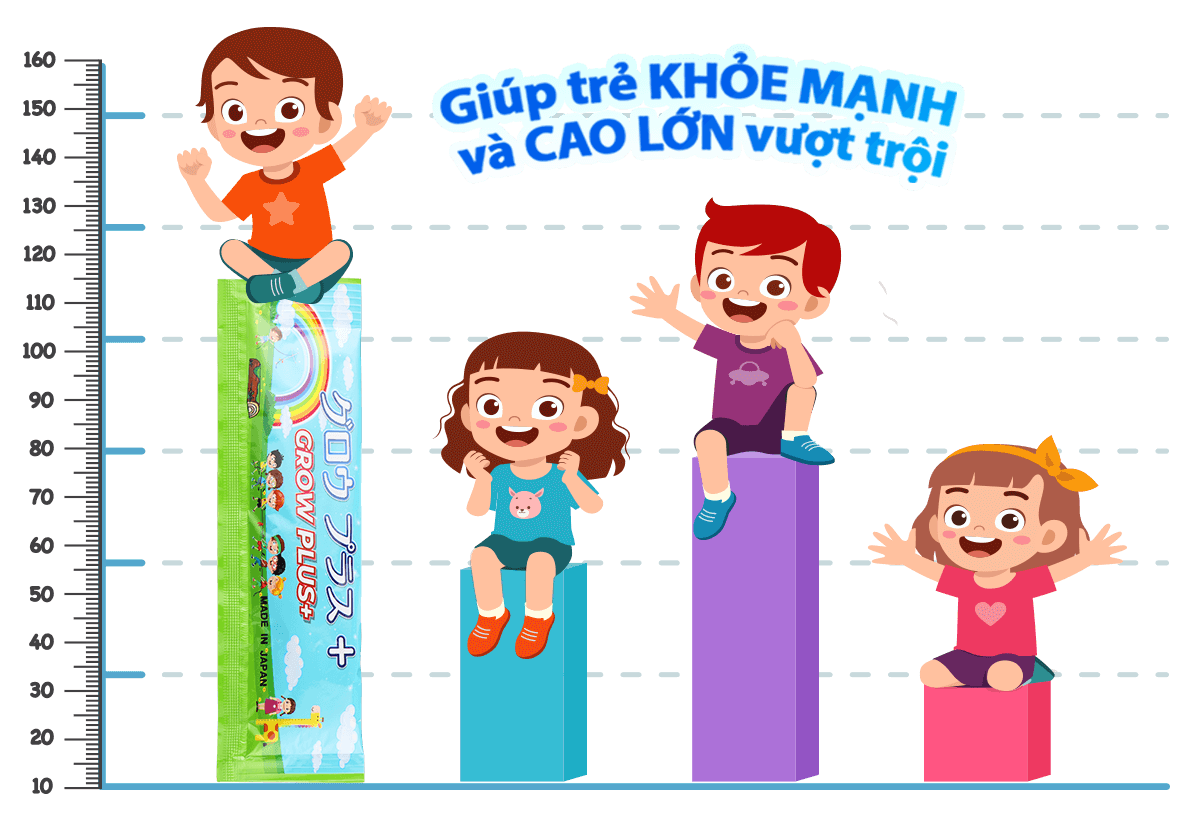
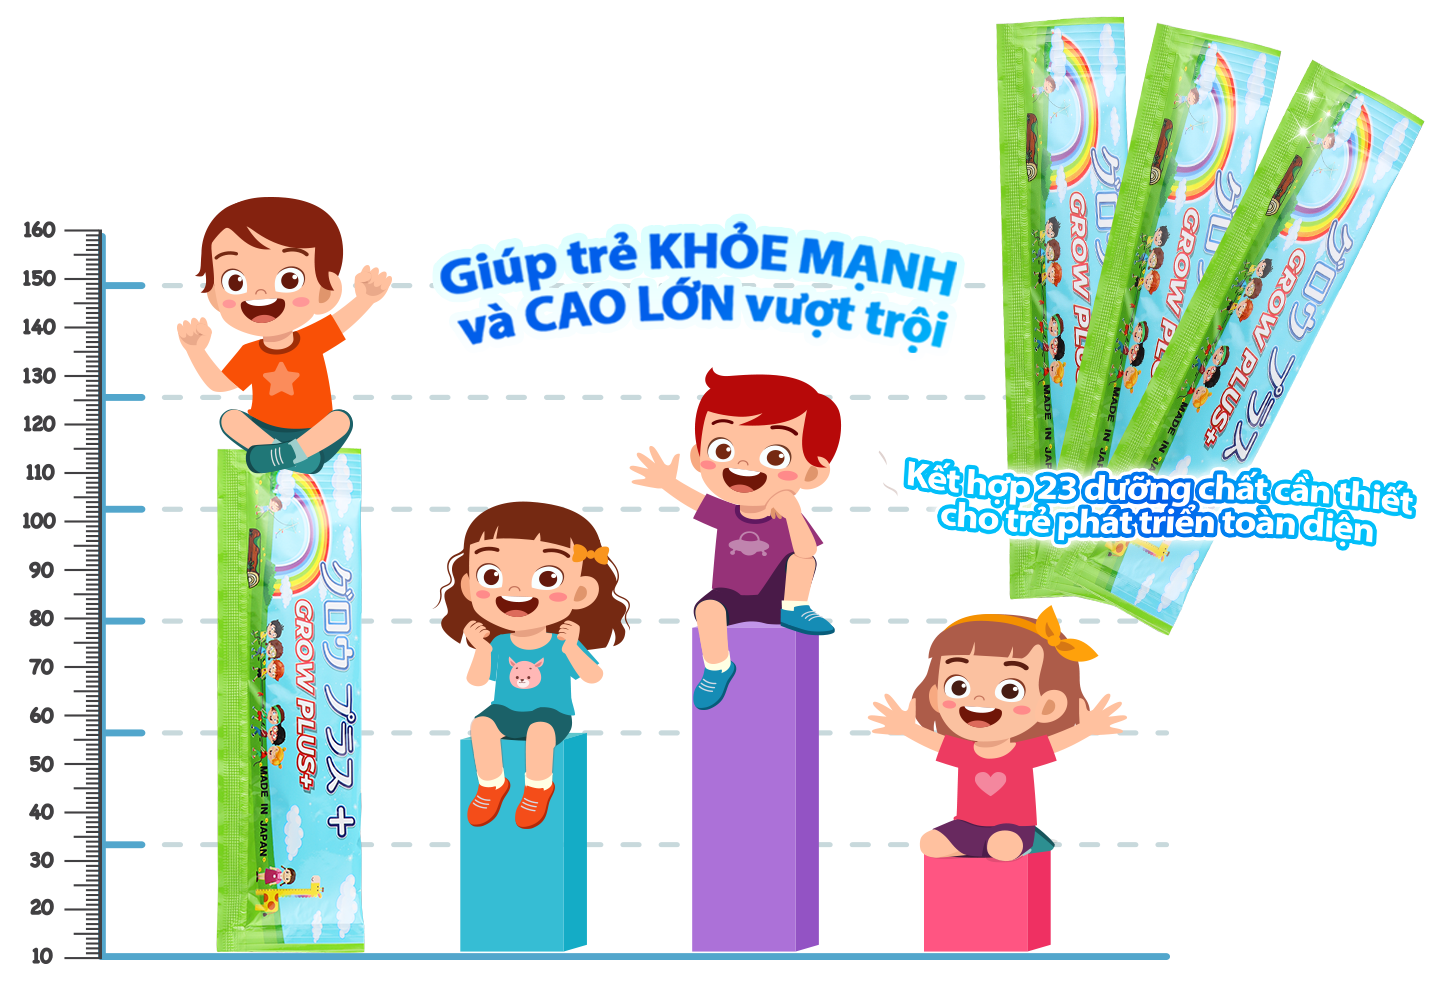
sdf

diff --git a/src/pages/Home.js b/src/pages/Home.js
@@ -117,14 +117,15 @@ export function Home() {
                 <HamburgerComponent/></div>
           </header>
           <div className="bg-[url(/public/banner.jpg)] bg-[length:158%_100%] md:bg-[length:100%_100%] h-[300px] md:h-[500px] mt-20"></div>
-          <div className='w-full md:flex justify-center'>
-            <div className='md:w-1/2 mt-8 md:ml-8 mx-4 flex'><img src="chart.png" className='object-contain' alt=""/></div>
-            <div className='md:w-[28%] mt-8 md:ml-8 mx-4 flex hidden md:block'><img src="3growplus.png" className='object-contain' alt=""/></div>
+          <div className='w-full md:flex justify-center hidden md:block'>
+            <div className='md:w-1/2 mt-8 md:ml-8 mx-4 flex'><img src="chartm.png" className='object-contain' alt=""/></div>
+            <div className='md:w-[28%] mt-8 md:ml-8 mx-4 flex'><img src="3growplus.png" className='object-contain' alt=""/></div>
           </div>
+          <img src="chart.png" className='md:hidden'></img>
           <section className='w-full mt-6 mb-16 md:mb-24 md:mt-8 scroll-m-20' ref={sec1}>
             <IngredientTab />
           </section>
-          <section className='w-full  bg-gradient-to-r from-10% to-[#0D4CC9] from-[#093489] md:from-white md:to-white md:pb-4 scroll-m-20 '  ref={sec4}><NotableBenefits /></section>
+          <section className='w-full  bg-gradient-to-r from-10% to-[#0D4CC9] from-[#093489] md:from-white md:to-white md:pb-4 scroll-m-20 pt-4 md:pt-0 '  ref={sec4}><NotableBenefits /></section>
           <section className='w-full scroll-m-20'  ref={sec5}><Accordion /></section>
           <section className='w-full scroll-m-20'  ref={sec3}><Info/></section>
           <section className='w-full scroll-m-20' ref={sec6}>
@@ -138,6 +139,7 @@ export function Home() {
                       slidesPerView: 3,
                     },
                   }} spaceBetween={30} navigation={true} modules={[Navigation]} className='!mx-8'>
+                
                 {articleList.map(i =>
                   <SwiperSlide>
                     <Link to={"/article?id=" + i._id}>
@@ -332,7 +334,7 @@ export function Home() {
     ]
     return (
       <>
-        <h2 className='font-bold text-3xl md:text-4xl mx-auto text-center text-white md:text-[#093489]'>Ưu điểm nổi bật</h2>
+        <h2 className='font-bold text-3xl md:text-4xl mx-auto text-center text-white md:text-[#093489] my-4 md:my-0'>Ưu điểm nổi bật</h2>
         <div className='hidden md:flex justify-between md:mx-12'>
           <div className='w-[28%]'>
               {texts1.map(i =>
@@ -369,10 +371,11 @@ export function Home() {
           </div>
 
         </div>
-        <Swiper spaceBetween={30} pagination={true} modules={[Pagination]} className='mb-8 !mx-8 md:!hidden'>
+        <Swiper spaceBetween={30} pagination={true} modules={[Pagination]} className='mb-8 !mx-8 md:!hidden !relative'>
+                <img alt="Ưu điểm nổi bật" src="Thanh.png" className='w-[65%] object-contain absolute top-0 z-[100] hidden'></img>
                 {texts1.map(i =>
-                  <SwiperSlide><div className='w-[100%] md:w-[31.5%] mt-4 mb-8 md:my-4 mx-auto md:mx-0 bg-white pt-2 pb-12 rounded-3xl h-96'>
-                    <div className='text-xl mx-6 md:text-2xl font-bold text-[#093489] md:mb-8 text-center'>{i.id}</div>
+                  <SwiperSlide><div className='w-[100%] md:w-[31.5%] mt-4 mb-8 md:my-4 mx-auto md:mx-0 bg-white pt-12 pb-12 rounded-3xl h-72'>
+                      <div className='absolute h-12 w-full bg-black top-0 rounded-t-3xl bg-gradient-to-r from-yellow-500 via-yellow-300 to-yellow-500 text-black flex items-center justify-center font-bold text-lg'>{i.id}</div>
                       <div className='flex-1 mx-6 text-justify'>{i.text}</div>
                       <>
                         {i.id === "Bảng thành phần vàng" && 
@@ -384,8 +387,8 @@ export function Home() {
                   </SwiperSlide>
                 )}
                 {texts2.map(i =>
-                  <SwiperSlide><div className='w-[100%] md:w-[31.5%] mt-4 mb-8 md:my-4 mx-auto md:mx-0 bg-white pt-2 pb-12 rounded-3xl h-96'>
-                    <div className='text-xl mx-6 md:text-2xl font-bold text-[#093489] md:mb-8 text-center'>{i.id}</div>
+                  <SwiperSlide><div className='w-[100%] md:w-[31.5%] mt-4 mb-8 md:my-4 mx-auto md:mx-0 bg-white pt-12 pb-12 rounded-3xl h-72'>
+                      <div className='absolute h-12 w-full bg-black top-0 rounded-t-3xl bg-gradient-to-r from-yellow-500 via-yellow-300 to-yellow-500 text-black flex items-center justify-center font-bold text-lg'>{i.id}</div>
                       <div className='flex-1 mx-6 text-justify'>{i.text}</div>
                       <>
                         {i.id === "Bảng thành phần vàng" && 
